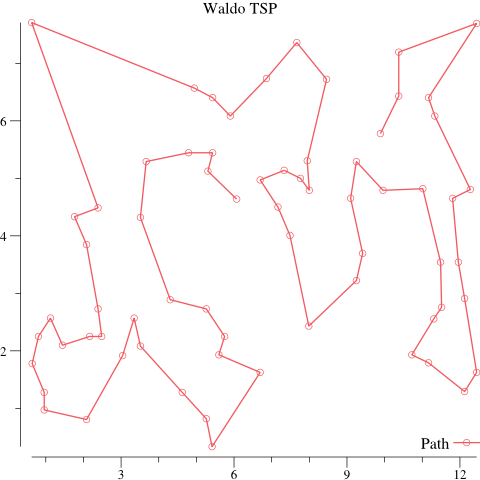
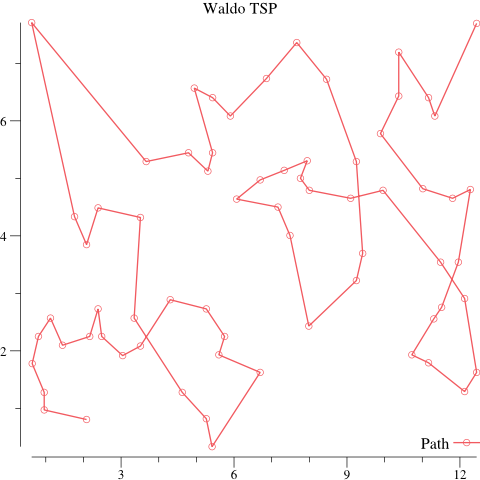
Begin writing clustering method and add tests for validating a GA parameters

diff --git a/tsp/grid/grid.go b/tsp/grid/grid.go
@@ -1,81 +1,81 @@
 package main
 
 import (
-    "fmt"
-    "math"
-    "strconv"
+	"fmt"
+	"math"
+	"strconv"
 
-    "github.com/MaxHalford/gago/presets"
+	"github.com/MaxHalford/gago/presets"
 
-    "github.com/gonum/plot"
-    "github.com/gonum/plot/plotter"
-    "github.com/gonum/plot/plotutil"
-    "github.com/gonum/plot/vg"
+	"github.com/gonum/plot"
+	"github.com/gonum/plot/plotter"
+	"github.com/gonum/plot/plotutil"
+	"github.com/gonum/plot/vg"
 )
 
 type point struct {
-    x, y float64
+	x, y float64
 }
 
 func euclidian(a, b point) float64 {
-    return math.Sqrt(math.Pow(a.x-b.x, 2) + math.Pow(a.y-b.y, 2))
+	return math.Sqrt(math.Pow(a.x-b.x, 2) + math.Pow(a.y-b.y, 2))
 }
 
 var (
-    size   = 6
-    points = make(map[string]point)
+	size   = 8
+	points = make(map[string]point)
 )
 
 // Create the list of possible points on a grid
 func init() {
-    for i := 0; i < size; i++ {
-        for j := 0; j < size; j++ {
-            var name = strconv.Itoa(i) + "-" + strconv.Itoa(j)
-            points[name] = point{float64(i), float64(j)}
-        }
-    }
+	for i := 0; i < size; i++ {
+		for j := 0; j < size; j++ {
+			var name = strconv.Itoa(i) + "-" + strconv.Itoa(j)
+			points[name] = point{float64(i), float64(j)}
+		}
+	}
 }
 
 // Calculate the distance for a list of consecutive points
 func distance(trip []string) float64 {
-    var total = 0.0
-    for i := 0; i < len(trip)-1; i++ {
-        total += euclidian(points[trip[i]], points[trip[i+1]])
-    }
-    return total
+	var total = 0.0
+	for i := 0; i < len(trip)-1; i++ {
+		total += euclidian(points[trip[i]], points[trip[i+1]])
+	}
+	return total
 }
 
 func graph(P []string) {
-    var XY = make(plotter.XYs, len(P))
-    for i, p := range P {
-        // Store the best fitness for plotting
-        XY[i].X = points[p].x
-        XY[i].Y = points[p].y
-    }
-    var p, _ = plot.New()
-    p.Title.Text = "Grid TSP"
-    plotutil.AddLinePoints(p, strconv.Itoa(size)+" x "+strconv.Itoa(size), XY)
-    // Save the plot to a PNG file.
-    if err := p.Save(5*vg.Inch, 5*vg.Inch, "grid.png"); err != nil {
-        panic(err)
-    }
+	var XY = make(plotter.XYs, len(P))
+	for i, p := range P {
+		// Store the best fitness for plotting
+		XY[i].X = points[p].x
+		XY[i].Y = points[p].y
+	}
+	var p, _ = plot.New()
+	p.Title.Text = "Grid TSP"
+	plotutil.AddLinePoints(p, strconv.Itoa(size)+" x "+strconv.Itoa(size), XY)
+	// Save the plot to a PNG file.
+	if err := p.Save(5*vg.Inch, 5*vg.Inch, "grid.png"); err != nil {
+		panic(err)
+	}
 }
 
 func main() {
-    // Get the names of the points
-    var names []string
-    for name := range points {
-        names = append(names, name)
-    }
-    // Create the GA
-    var ga = presets.TSP(names, distance)
-    ga.Initialize()
-    // Enhance
-    for i := 0; i < 1000; i++ {
-        ga.Enhance()
-    }
-    fmt.Println(ga.Best.Fitness)
-    // Extract the genome of the best individual
-    var points = ga.Best.Genome.CastString()
-    graph(points)
+	// Get the names of the points
+	var names []string
+	for name := range points {
+		names = append(names, name)
+	}
+	// Create the GA
+	var ga = presets.TSP(names, distance)
+	ga.Initialize()
+	// Enhance
+	for i := 0; i < 30000; i++ {
+		ga.Enhance()
+	}
+	fmt.Println(ga.Best.Fitness)
+	// Extract the genome of the best individual
+	var points = ga.Best.Genome.CastString()
+	graph(points)
 }

diff --git a/tsp/waldo/waldo.go b/tsp/waldo/waldo.go
@@ -80,7 +80,7 @@ func main() {
 	var ga = presets.TSP(names, distance)
 	ga.Initialize()
 	// Enhance
-	for i := 0; i < 20000; i++ {
+	for i := 0; i < 10000; i++ {
 		ga.Enhance()
 	}
 	fmt.Println(ga.Best.Fitness)
